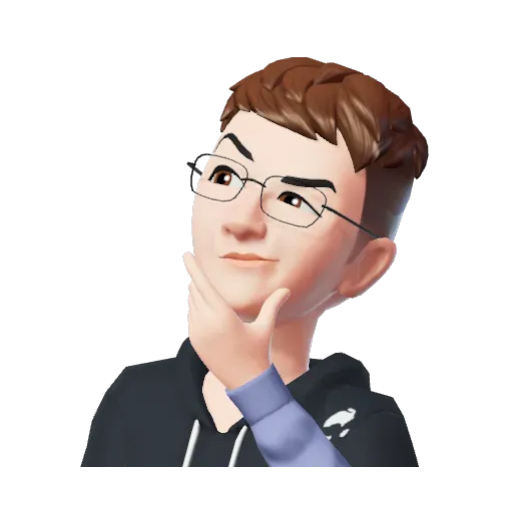
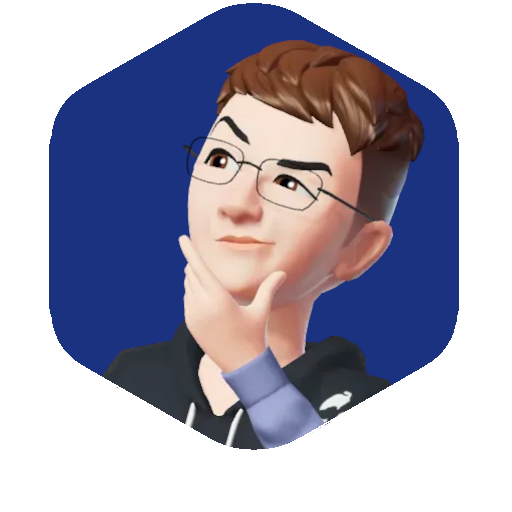
AGORA FOI!!!!!!!!!!!!!

diff --git a/estilo/style.css b/estilo/style.css
@@ -42,109 +42,52 @@ html, body {
 
 header {
   width: 100%;
+  height: 100vh;
   display: flex;
   flex-direction: column;
-  justify-content: space-evenly;
+  justify-content: space-around;
   
 }
 
-span {
-    color: blue;
-}
+span {color: blue;}
 
-.inicio-titulo {
+.container-titulo-sticker {
   display: flex;
   z-index: 1;
-  flex-flow: row nowrap;
-  justify-content: center;
-}
-
-.titulo {
-  width: 70%;
-  height: 30%;
-  z-index: 1;
-  align-self: center;
-  display: flex;
+  flex-flow: row wrap;
   justify-content: center;
   align-items: center;
 }
 
+.titulo {
+  font-size: 2rem;
+  padding: 5%;
+  text-align: center;
+  color: white;
+  text-shadow: 1px 3px 5px aqua;
+}
+
 
 .img-perfil img {
-  width: 35vh;
-  filter: drop-shadow(10px 7px 10px aqua);
+  display: block;
+  position: relative;
+  width: 30vh;
+  margin: 10% auto ;
+  filter: drop-shadow(-1px 0px 8px aqua);
+
+  animation: flutuar 1.5s ease-in-out infinite alternate;
 }
 
-@media screen and (max-width:816px) {
-  p {
-    min-width: 300px;
-    max-width: 1300px;
-    padding: 15px;
-    text-align: center;
-    font-size: 1.7em;
-    color: white;
+@keyframes flutuar {
+  0%{
+    top: 0px;
   }
-
-.inicio-titulo {
-  flex-flow: row wrap;
-}
-
-  .img-perfil img {
-    width: 25vh;
-    padding-top: 20px;
-    align-self: center;
+  100%{
+    top: 30px;
   }
 }
 
-@media screen and (min-height: 500px) and (max-height: 850px) {
-.inicio-titulo {
-  margin-top: 20%;
-}
-
-  .Animated-Radial-Menu {
-  margin-top: 20%;
-}
-}
-
-@media screen and (min-height: 1000px) {
-  .inicio-titulo {
-    margin-top: 15%;
-  }
-  
-    .Animated-Radial-Menu {
-    padding-top: 25%;
-  }
-}
-
-@media screen and (min-width: 817px) and (max-width: 1100px){
-  p {
-    font-size: 2.5em;
-    padding-top: 10px;
-    text-align: center;
-    color: white;
-  }
-
-  .Animated-Radial-Menu {
-    margin-top: 10px;
-  }
-}
-
-@media screen and (min-width: 1200px){
-  .inicio-titulo {
-    margin-top: 100px;
-  }
-
-p {
-  text-align: center;
-  font-size: 2.9em;
-  color: white;
-}
-
-.Animated-Radial-Menu .menu {
-  margin-top: 10%;
-}
-}
-
+/* NÃO MEXER */
 .Animated-Radial-Menu {
     display: flex;
     justify-content: center;
@@ -154,14 +97,14 @@ p {
   .Animated-Radial-Menu .menu {
     position: relative;
     width: 280px;
-    height: 120px;
-    padding-top: 100px;
+    height: 200px;
     display: flex;
     justify-content: center;
     align-items: center;
   }
-
+  
   .Animated-Radial-Menu .menu .toggle {
+  
     position: absolute;
     width: 60px;
     height: 60px;

diff --git a/estilo/mq-inicial.css b/estilo/mq-inicial.css
@@ -1,0 +1,52 @@
+@charset "UTF-8";
+
+@media screen and (max-width: 340px){ /* Telas pequenas */
+    .container-titulo-sticker {
+        gap: 11px;
+      }
+  
+      .titulo {
+        font-size: 1.3rem;
+        text-shadow: 1px 1px 3px aqua;
+      }
+  
+      .img-perfil img {
+        margin: auto;
+      }
+  }
+
+@media screen and (min-width: 769px ) and (max-width: 1200px){  /* Tablets */
+    .container-titulo-sticker {
+        flex-flow: row wrap;
+    }
+
+    .titulo {
+        font-size: 3rem;
+    }
+    }
+
+@media screen and (min-width: 1201px) { /* Pc */
+    .container-titulo-sticker {
+        display: flex;
+        z-index: 1;
+        flex-flow: row wrap;
+        height: 50vh;
+        justify-content: center;
+        align-items: center;
+      }
+      
+      .titulo {
+        font-size: 3.3rem;
+        padding: 0% 3% 3% 3%;
+        text-align: center;
+        color: white;
+      }
+      
+      
+      .img-perfil img {
+        display: block;
+        width: 42vh;
+        margin: 10% auto ;
+        filter: drop-shadow(0px 5px 10px aqua);
+      }
+}

diff --git a/paginas/inicial.html b/paginas/inicial.html
@@ -5,18 +5,23 @@
     <meta name="viewport" content="width=device-width, initial-scale=1.0">
     <title>Portifólio</title>
     <link rel="stylesheet" href="../estilo/style.css">
+    <link rel="stylesheet" href="../estilo/mq-inicial.css">
     <link href="https://fonts.googleapis.com/css2?family=Material+Symbols+Outlined" rel="stylesheet" />
     <script defer src="../js/script.js"></script>
 </head>
 <body>
+    <!-- Inicio Video -->
     <div class="video-container">
         <video autoplay muted loop id="background-video">
             <source src="../imagens/1118472_Macro_4k_1280x720.mp4" type="video/mp4">
             Seu navegador não suporta a tag de vídeo.
         </video>
         </div>
+        <!-- Fim VIdeo -->
+
+        <!-- Todo Conteúdo -->
         <header>
-            <div class="inicio-titulo">
+            <div class="container-titulo-sticker">
                 <div class="titulo">
                     <p>
                         Oi! Me chamo <span>Lucas.</span><br>
